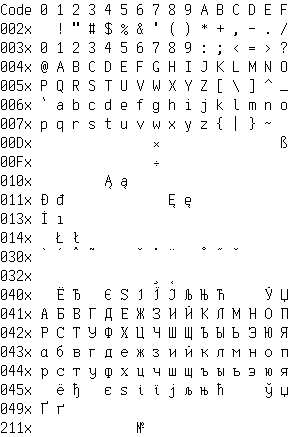
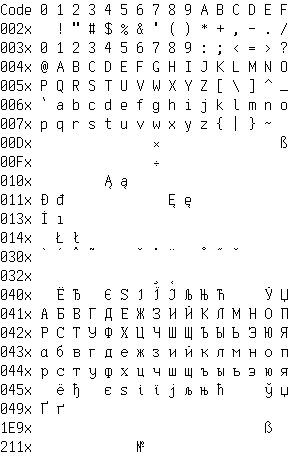
New codepoints

diff --git a/rle-decode.js b/rle-decode.js
@@ -5,25 +5,24 @@ export default function (/** @type {string} */ base64) {
     let buf = atob(base64);
     let bufIndex = 0;
 
-    function readByte() {
+    function rawRead() {
         if (bufIndex >= buf.length) {
             return -1;
         }
         return buf.charCodeAt(bufIndex++);
     }
 
-
     function read() {
         while (true) {
             if (repeatCount > 0) {
                 repeatCount--;
                 if (repeatData == null) {
-                    return readByte();
+                    return rawRead();
                 } else {
                     return repeatData;
                 }
             }
-            let data = readByte();
+            let data = rawRead();
             if (data < 0) {
                 return data;
             }
@@ -39,7 +38,7 @@ export default function (/** @type {string} */ base64) {
                     repeatData = 0xFF;
                     break;
                 case 0x80:
-                    data = readByte();
+                    data = rawRead();
                     if (data < 0) {
                         return data;
                     }
@@ -52,8 +51,8 @@ export default function (/** @type {string} */ base64) {
         }
     }
 
-    readByte();
-    const width = readByte();
+    rawRead();
+    const width = rawRead();
     let /** @type {boolean[][]} */ res = [[]];
     let b = read();
     while (b >= 0) {
@@ -62,8 +61,8 @@ export default function (/** @type {string} */ base64) {
             row = [];
             res.push(row)
         }
-        row.push(b > 128);
+        row.push(b >= 128);
         b = read();
     }
-    return res;
+    return res;// No ambiguity in the characters 'Il1', 'OoОо0', 'EeЕе', etc.
 }

diff --git a/export.js b/export.js
@@ -99,15 +99,18 @@ writeFileSync('./Example.png', getImage([
     'The quick brown fox jumps over the lazy dog',
     '"Üb jodeln, Gör!", quäkt Schwyz',
     'Pijamalı hasta yağız şoföire çabucak güvendi',
-    'ŔÁÂĂÄĹĆÇČÉĘËĚÍÎĎĐŃŇÓÔŐÖ×ŘŮÚŰÜÝŢß',
-    'ŕáâăäĺćçčéęëěíîďđńňóôőö÷řůúűüýţ',
+    'ŔÁÂĂÄĹĆÇČÉĘËĚÍÎĎĐŃŇÓÔŐÖ×ŘŮÚŰÜÝŢẞ',
+    'ŕáâăäĺćçčéęëěíîďđńňóôőö÷řůúűüýţß',
     'ЂЃѓЉЊЌЋЏђљњќћџЎўЈҐЁЄЇІіґё№єјЅѕї',
+    'ÑÒÕÀÃÅÈÊÌÏÙÛĞİŸŚŤŽŹĽŻŠĄŞŁ',
+    'ñòõàãåèêìïùûğıÿśťžźľżšąşł',
     // TODO:
-    // '€AC‚„E…†‡‰Š‹ŚŤŽDŹ.‘’“”•–—™š›śBťžźˇ˘',
-    // 'Ł¤Ą¦§¨©Ş«¬®Ż°±˛ł´µ¶·¸ąşF»Ľ˝ľż',
-    // '˙ƒˆŒ˜œŸ¡¢£¥ª¯º¼½¾¿ÀÃÅÆÈÊÌÏ',
-    // 'ÐÑÒÕØÙÛÞàãåæèêìï',
-    // 'ðñòõøùûþÿĞİğı',
+    // '€‚„…†‡‰‹.‘’“”•–—™›ˇ˘',
+    // '¤¦§¨©«¬®°±˛´µ¶·¸»˝',
+    // '˙ƒˆ˜¡¢£¥ª¯º¼½¾¿',
+    // 'ÐØÞÆŒ',
+    // 'ðøþæœ',
+    "No ambiguity in the characters 'Il1', 'OoОо0', 'CcСс', etc.",
     'Съешь же ещё этих мягких французских булок, да выпей чаю',
     'Вкъщи не яж сьомга с фиде без ракийка и хапка люта чушчица!',
     'У рудога вераб\'я ў сховішчы пад фатэлем ляжаць нейкія гаючыя зёлкі',

diff --git a/kbitx-parse.js b/kbitx-parse.js
@@ -9,7 +9,7 @@ export default function (/** @type {string} */ filePath) {
     const /** @type {{u:string,x:string,y:string,w:string,d:string}[]} */ data =
         parser.toJson(xml, { object: true }).kbits.g;
 
-    return data.map(({ u, x, y, w, d }) => ({
+    return data.map(({ u, x, y, d }) => ({
         code: parseInt(u),
         x: parseInt(x),
         y: parseInt(y),
